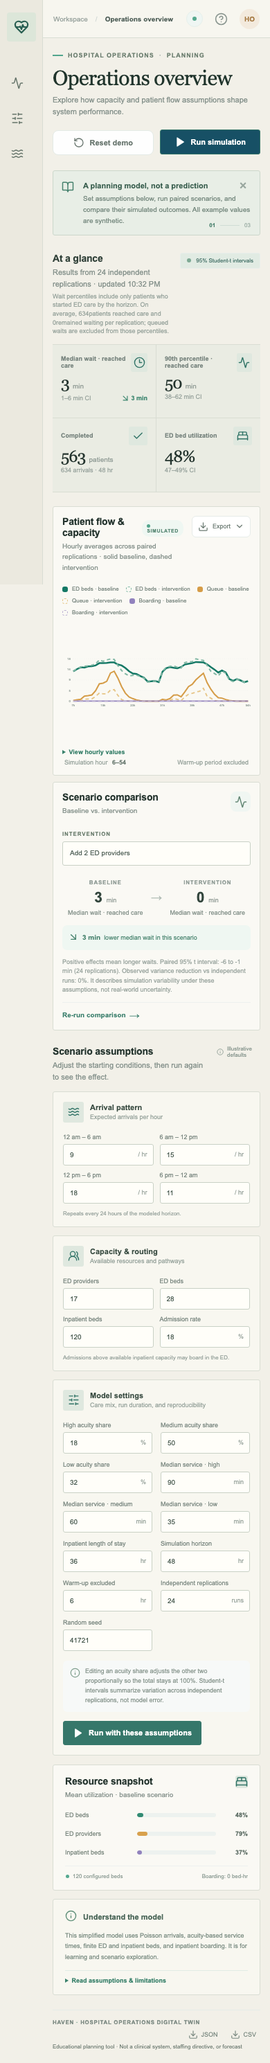
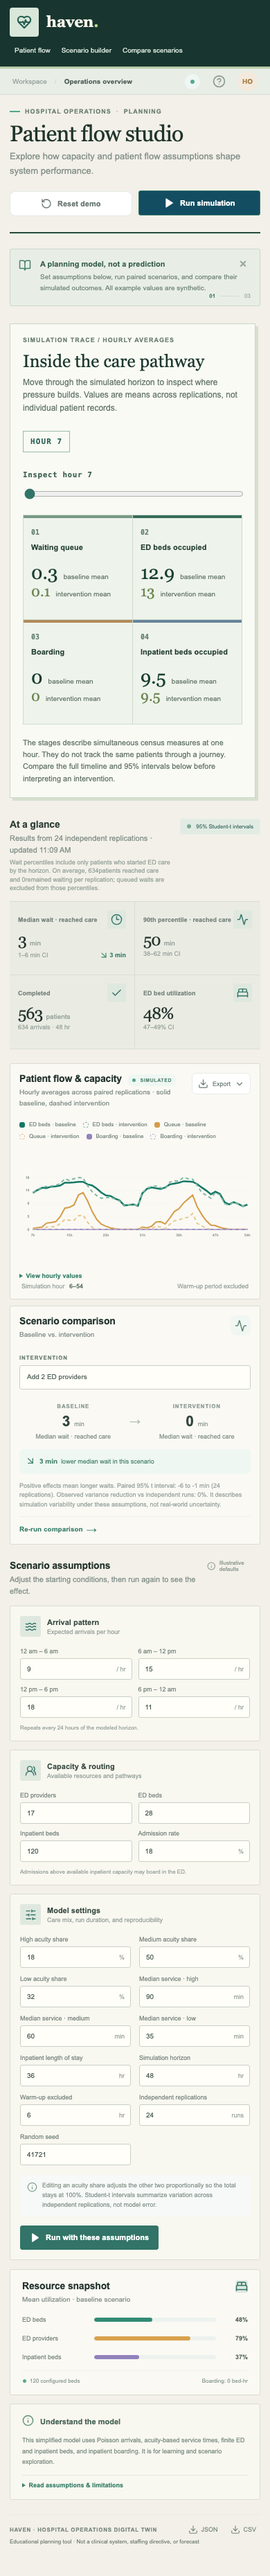
Redesign primary analysis workspace

Changed region(s): [[0.0, 0.0, 1.0, 0.999], [0.8615, 0.718, 0.9231, 0.7805], [0.8615, 0.4995, 0.9231, 0.5307]]

diff --git a/src/App.tsx b/src/App.tsx
@@ -98,6 +98,7 @@ export default function App() {
   const [error, setError] = useState("");
   const [guideOpen, setGuideOpen] = useState(true);
   const [ranAt, setRanAt] = useState("");
+  const [selectedHour, setSelectedHour] = useState(0);
   const interventionHasNoEffect =
     (intervention === "staff" && scenario.capacities.providers >= 100) ||
     (intervention === "beds" && scenario.capacities.edBeds >= 500) ||
@@ -213,6 +214,9 @@ export default function App() {
       : undefined;
   const chartData = base?.timeline ?? [];
   const interventionData = change?.timeline ?? [];
+  const inspectedIndex = Math.min(selectedHour, Math.max(0, chartData.length - 1));
+  const inspectedBase = chartData[inspectedIndex];
+  const inspectedChange = interventionData[inspectedIndex];
   const chartMax = Math.max(
     1,
     ...[...chartData, ...interventionData].flatMap((point) => [
@@ -381,9 +385,9 @@ export default function App() {
         </a>
         <div className="workspace-label">WORKSPACE</div>
         <nav>
-          <a className="nav-link" href="#overview">
+          <a className="nav-link" href="#flow-inspector">
             <Activity size={18} />
-            Overview
+            Patient flow
           </a>
           <a className="nav-link" href="#scenario">
             <SlidersHorizontal size={18} />
@@ -423,7 +427,7 @@ export default function App() {
           <div className="breadcrumbs">
             <span>Workspace</span>
             <span className="crumb-sep">/</span>
-            <strong>Operations overview</strong>
+            <strong>Patient flow studio</strong>
           </div>
           <div className="topbar-actions">
             <span className="data-pill">
@@ -447,7 +451,7 @@ export default function App() {
                 <span className="eyebrow-line" /> HOSPITAL OPERATIONS{" "}
                 <span className="eyebrow-dot">·</span> PLANNING
               </div>
-              <h1>Operations overview</h1>
+              <h1>Patient flow studio</h1>
               <p>
                 Explore how capacity and patient flow assumptions shape system
                 performance.
@@ -513,6 +517,24 @@ export default function App() {
               <button onClick={() => setError("")}>Dismiss</button>
             </div>
           )}
+          <section className="flow-inspector" id="flow-inspector" aria-labelledby="flow-inspector-title">
+            <div className="inspector-heading">
+              <div><span className="eyebrow">SIMULATION TRACE / HOURLY AVERAGES</span><h2 id="flow-inspector-title">Inside the care pathway</h2><p>Move through the simulated horizon to inspect where pressure builds. Values are means across replications, not individual patient records.</p></div>
+              <span className="inspector-hour">{inspectedBase ? `HOUR ${inspectedBase.hour}` : 'AWAITING RUN'}</span>
+            </div>
+            {inspectedBase ? <>
+              <label className="hour-scrubber">Inspect hour {inspectedBase.hour}<input type="range" min="0" max={chartData.length - 1} value={inspectedIndex} onChange={(event) => setSelectedHour(Number(event.target.value))} aria-label="Inspect simulation hour" /></label>
+              <div className="pathway-stages">
+                {([
+                  ['Waiting queue','queue'],
+                  ['ED beds occupied','edOccupancy'],
+                  ['Boarding','boarding'],
+                  ['Inpatient beds occupied','inpatientOccupancy'],
+                ] as const).map(([label,key],index) => <div className="pathway-stage" key={key}><span className="stage-index">0{index+1}</span><h3>{label}</h3><div className="stage-values"><strong>{inspectedBase[key]}</strong><span>baseline mean</span></div><div className="stage-compare"><b>{inspectedChange?.[key] ?? '—'}</b><span>intervention mean</span></div></div>)}
+              </div>
+              <p className="inspector-note">The stages describe simultaneous census measures at one hour. They do not track the same patients through a journey. Compare the full timeline and 95% intervals below before interpreting an intervention.</p>
+            </> : <div className="inspector-empty">Preparing the synthetic example. Run the simulation to inspect hourly capacity pressure.</div>}
+          </section>
           <div className="section-heading">
             <div>
               <h2>At a glance</h2>

diff --git a/src/styles.css b/src/styles.css
@@ -1421,3 +1421,40 @@ body, .main-content { color: var(--ink); background: #f2f0e8; }
   .metric-card:nth-child(2) { border-right: 0; }
   .metric-card:nth-child(-n+2) { border-bottom: 1px solid #d9ddd3; }
 }
+
+/* Clinical operations studio: pathway first, evidence below. */
+.app-shell{display:block}
+.sidebar{position:static;inset:auto;width:100%;height:auto;min-height:0;padding:12px clamp(18px,3vw,52px);display:flex;flex-direction:row;align-items:center;gap:clamp(20px,4vw,70px);background:#18352f;border-right:0;border-bottom:3px solid #b6cba5;color:#f6f4e9}
+.brand{margin:0;flex:none;color:#f6f4e9;font-size:26px}
+.brand small{color:#b7d4c5;font-size:8px}
+.brand-mark{background:#d8e7d9;color:#255f52}
+.brand-dot{color:#b9d98b}
+.workspace-label,.sidebar-bottom{display:none}
+.sidebar nav{display:flex;flex-wrap:wrap;gap:8px}
+.nav-link{color:#d6e4da;height:auto;padding:10px 13px;border-radius:2px;font-size:12px}
+.nav-link:hover{color:#fff;background:#2d5349}
+.main-content{margin-left:0}
+.topbar{height:43px;background:#e8ede5;padding:0 clamp(18px,3vw,52px)}
+.page-wrap{max-width:1600px;padding:32px clamp(18px,3vw,52px) 60px}
+.page-heading{border-bottom:2px solid #254a3c;padding-bottom:23px;margin-bottom:22px}
+.page-heading h1{font-size:clamp(32px,4.5vw,56px);line-height:1.04}
+.page-heading p{font-size:13px;max-width:590px;line-height:1.6}
+.flow-inspector{background:#f9faf4;border:1px solid #cbd8c8;box-shadow:7px 7px 0 #d7dfcf;padding:clamp(18px,2.8vw,34px);margin:18px 7px 30px 0;scroll-margin-top:20px}
+.inspector-heading{display:flex;justify-content:space-between;align-items:flex-start;gap:25px}
+.inspector-heading h2{font:500 clamp(25px,3vw,37px)/1.15 Georgia,'Times New Roman',serif;margin:8px 0 7px;color:#1c382e}
+.inspector-heading p{color:#66776b;font-size:12px;line-height:1.55;max-width:650px}
+.inspector-hour{font:700 11px ui-monospace,SFMono-Regular,monospace;white-space:nowrap;letter-spacing:.1em;color:#2b6354;border:1px solid #9cb9a9;padding:8px 10px}
+.hour-scrubber{display:grid;gap:11px;font:700 11px ui-monospace,SFMono-Regular,monospace;letter-spacing:.05em;color:#426456;margin:26px 0 20px}
+.hour-scrubber input{width:100%;accent-color:#327467;cursor:pointer}
+.pathway-stages{display:grid;grid-template-columns:repeat(4,minmax(0,1fr));gap:1px;background:#cfdbce;border:1px solid #cfdbce}
+.pathway-stage{position:relative;min-width:0;min-height:180px;background:#eef3eb;padding:17px 16px;border-top:4px solid #789a85}
+.pathway-stage:nth-child(2){border-color:#376c5b}.pathway-stage:nth-child(3){border-color:#b18b59}.pathway-stage:nth-child(4){border-color:#67849a}
+.stage-index{font:700 10px ui-monospace,SFMono-Regular,monospace;color:#668272}
+.pathway-stage h3{font-size:13px;margin:9px 0 15px;color:#233d32}
+.stage-values,.stage-compare{display:flex;align-items:baseline;gap:8px;flex-wrap:wrap}
+.stage-values strong{font:500 35px Georgia,'Times New Roman',serif;color:#183e30}
+.stage-compare b{font:500 25px Georgia,'Times New Roman',serif;color:#6c8652}
+.stage-values span,.stage-compare span{font-size:10px;color:#637466}
+.inspector-note,.inspector-empty{font-size:11px;color:#617267;line-height:1.55;margin:18px 0 0}
+@media(max-width:820px){.sidebar{width:100%;padding:11px 18px;gap:15px}.brand{margin:0}.brand>span:last-child{display:block}.sidebar nav{gap:2px}.nav-link{font-size:11px;width:auto;padding:7px}.main-content{margin-left:0}.pathway-stages{grid-template-columns:repeat(2,minmax(0,1fr))}}
+@media(max-width:620px){.sidebar{align-items:flex-start;flex-direction:column;padding:11px 14px;gap:7px}.brand{font-size:22px}.brand small{display:none}.sidebar nav{width:100%;overflow-x:auto;flex-wrap:nowrap}.nav-link{font-size:10px;white-space:nowrap;justify-content:flex-start;margin:0}.nav-link svg{display:none}.topbar{height:38px}.page-wrap{padding:19px 14px 40px}.inspector-heading{display:block}.inspector-hour{display:inline-block;margin-top:12px}.pathway-stage{min-height:150px;padding:11px}.stage-values strong{font-size:27px}.stage-compare b{font-size:21px}.pathway-stage h3{font-size:11px}.flow-inspector{box-shadow:4px 4px 0 #d7dfcf}}

diff --git a/e2e/dashboard.spec.ts b/e2e/dashboard.spec.ts
@@ -9,6 +9,8 @@ test("edit the synthetic example, compare scenarios and export results", async (
   await page.getByLabel("Arrivals per hour 6 am – 12 pm").fill("25");
   await page.getByLabel("Intervention").selectOption("beds");
   await page.getByRole("button", { name: "Run simulation" }).click();
+  await page.getByRole("slider", { name: "Inspect simulation hour" }).fill("3");
+  await expect(page.locator(".flow-inspector")).toContainText("Inspect hour");
   await expect(
     page.getByText(/Results from 24 independent replications/),
   ).toBeVisible({ timeout: 30_000 });

diff --git a/README.md b/README.md
@@ -30,12 +30,12 @@ docker run --rm -p 3001:3001 hospital-digital-twin
 
 Open http://localhost:3001. The app uses no persistence: each simulation result is returned directly from its run request.
 
-## Using the dashboard
+## Using the patient flow studio
 
 1. Review or change arrivals in four six-hour blocks, acuity mix, service-time medians, ED providers/beds, inpatient beds, and admission share.
 2. Set horizon, warm-up, replication count, and random seed.
 3. Select an intervention (two added ED providers, four added ED beds, or a five percentage point lower admission share) and run the comparison.
-4. Inspect the wait-time estimates, utilization, boarding, and hourly queue timeline. Export JSON for complete replication output or CSV for summary metrics.
+4. Scrub the care-pathway inspector to compare hourly queue, ED occupancy, boarding, and inpatient occupancy means, then inspect wait-time intervals and the full timeline. Export JSON for complete replication output or CSV for summary metrics.
 
 The comparison pairs runs by reusing the same replication seeds. For each seed, the intervention wait median minus the baseline wait median is computed; the displayed paired effect uses the sample standard error and a two-sided 95% Student-t interval with n−1 degrees of freedom. Positive effects mean longer waits. This interval describes simulation variability under entered assumptions, not real-world or model uncertainty. Individual summary metric intervals also use Student-t critical values, but are not the paired intervention interval.
 
